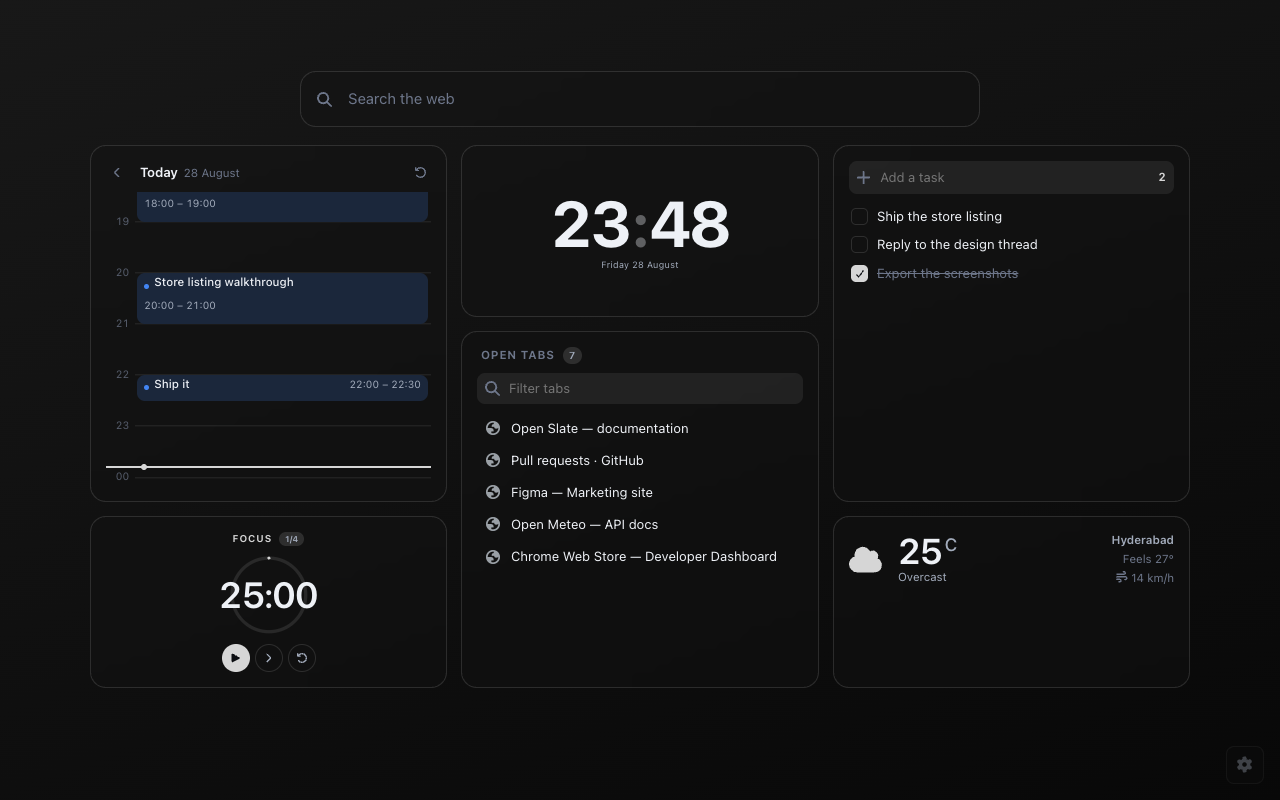
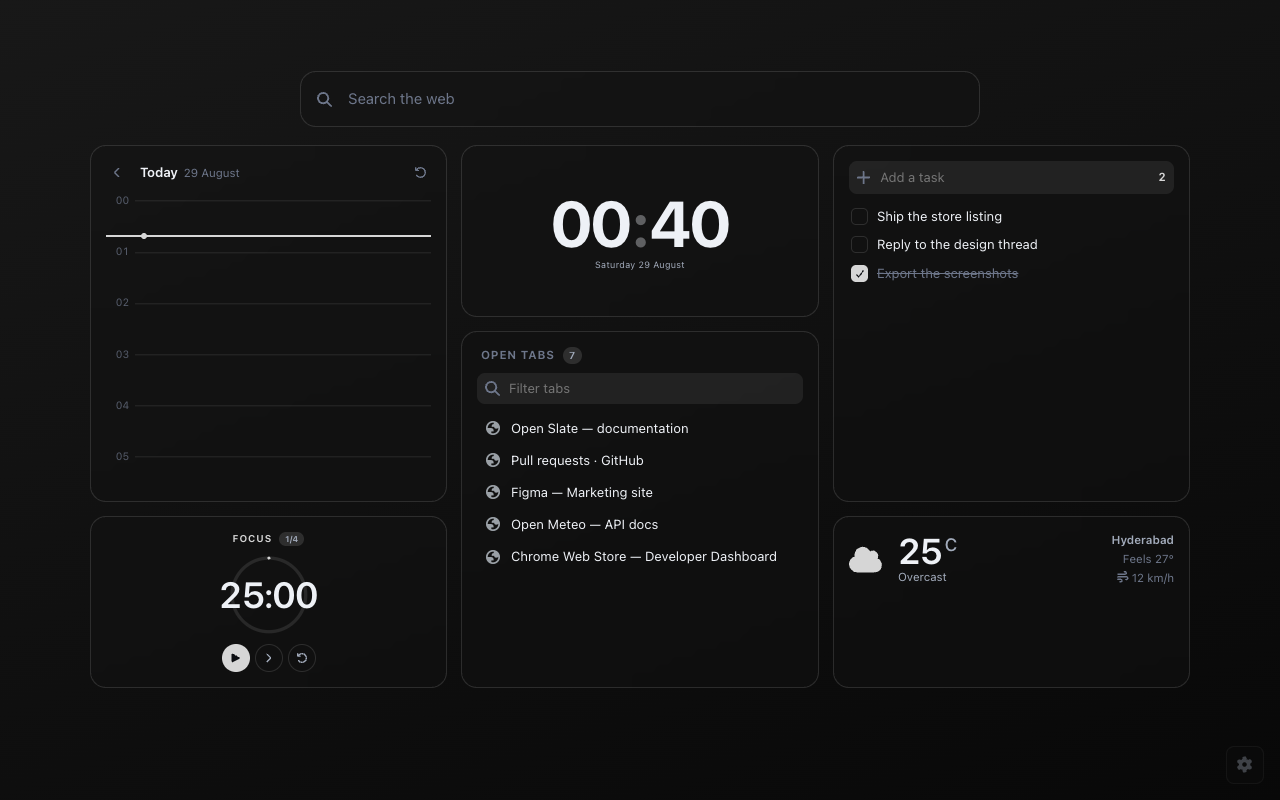
Cut the store screenshots to the five it allows
The listing claimed six screenshots and the generator marked six scenes
`store: true`, but the Chrome Web Store caps a listing at five. STORE.md had it
right at five and LISTING.md had the wrong count, so the two disagreed about
which five as well.

The settings page is the one dropped: it is the weakest of the six as a store
image, and the website still gets it at 2x. The wallpaper scene leads, which is
what it was written to do.

Version goes to 1.0.0 in both package.json and public/manifest.json — the store
number is permanent once uploaded, and 0.1.0 is not the one to spend on it.

diff --git a/STORE.md b/STORE.md
@@ -105,15 +105,20 @@ bookmarks and history, a calendar and an RSS feed served from localhost, and a
 wallpaper generated by `scripts/gen-wallpaper.mjs` rather than downloaded. No
 real browsing data appears in any image.
 
-The five screenshots to upload, in order:
+The store allows five screenshots. These are them, in order:
 
+- [x] `wallpaper.png` — a photograph behind glass panels, the accent drawn out
+      of the sky
 - [x] `dashboard.png` — the author's own widget layout: calendar day view,
       clock, tasks, open tabs, timer and weather
 - [x] `speed-dial.png` — the tile grid, logos in their own brand colours
+- [x] `command-palette.png` — the command palette over the tiles
 - [x] `make-it-yours.png` — light palette, square corners, neutral plates,
       showing how far the appearance settings go
-- [x] `command-palette.png` — the command palette over the tiles
-- [x] `settings.png` — the settings page
+
+The settings page is captured too, but for the website rather than the store:
+five is the cap, and a screenshot of a preferences list sells the extension less
+well than any of the above.
 
 - [x] 440x280 small promo tile — `marketing/promo/small-tile-440x280.png`
 - [x] 1400x560 marquee tile — `marketing/promo/marquee-1400x560.png`

diff --git a/marketing/LISTING.md b/marketing/LISTING.md
@@ -87,7 +87,7 @@ Free and open source.
 
 ## Screenshots
 
-In order, from `screenshots/`:
+The store allows five. In order, from `screenshots/`:
 
 | # | File | Caption |
 | --- | --- | --- |
@@ -96,12 +96,12 @@ In order, from `screenshots/`:
 | 3 | `speed-dial.png` | Your sites, drawn in their own brand colours |
 | 4 | `command-palette.png` | Tabs, tiles, bookmarks and history, one keystroke away |
 | 5 | `make-it-yours.png` | The same grid, four settings apart |
-| 6 | `settings.png` | Every preference, searchable and live |
 
 `npm run marketing:shots` writes several more scenes to `marketing/site/img/`
-than the store takes — the widget gallery, the ten clock faces, folders and
-pages, the four tile plate styles, the light dashboard, and two more settings
-sections. Those carry the website; the six above are the store's.
+than the store takes — the settings page, the widget gallery, the ten clock
+faces, folders and pages, the four tile plate styles, the light dashboard, and
+two more settings sections. Those carry the website; the five above are the
+store's.
 
 The dashboard and wallpaper shots reproduce the layout this project's author
 actually runs, with curated content: the calendar and feed are subscribed to
